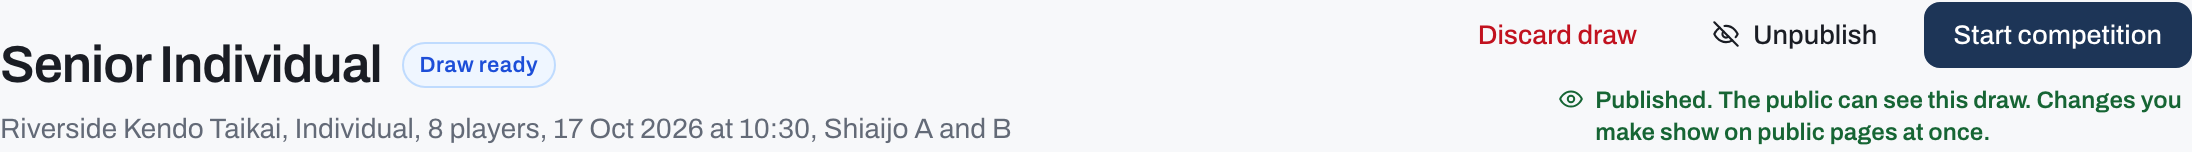
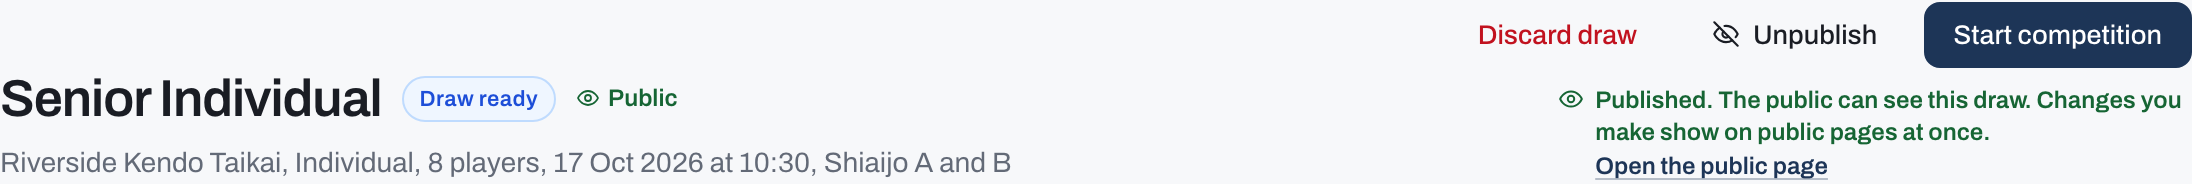
fix(bc-drpb): apply the design critique of the publish-draw screens
Round bc-drpb-critique-1:
- C1: the title row says "Hidden from the public" or "Public" beside the
  Draw ready badge, with the dashboard card's eye line.
- C2: the hint line ends with "Open the public page", opening the
  competition's public page in a new tab.
- C3: both Discard confirms are titled "Discard the draw for <name>?".
- C4: the public home list badge reads "Preparing draw" and never wraps;
  the competition page card keeps "Draw being prepared".
- C5: left as it is.

Docs and the two header screenshots follow.

diff --git a/web-mobile/js/__tests__/render/draw_preview_publish.render.test.jsx b/web-mobile/js/__tests__/render/draw_preview_publish.render.test.jsx
@@ -4,6 +4,7 @@ import { describe, it, expect, vi, beforeAll, afterAll, beforeEach } from 'vites
 import { installWindowStubs } from '../helpers/stub_globals.js';
 import {
   DRAW_HIDDEN_HINT, DRAW_PUBLISHED_HINT, DRAW_PUBLISHED_TOAST, DRAW_UNPUBLISHED_TOAST,
+  DRAW_HIDDEN_CARD_LINE, DRAW_PUBLIC_CARD_LINE, OPEN_PUBLIC_PAGE_LABEL,
   startHiddenDrawMessage, discardPublishedDrawMessage,
 } from '../../draw_visibility.jsx';
 
@@ -83,20 +84,34 @@ const headerButtons = (container) => [...container.querySelectorAll('.page-head_
 const labels = (container) => headerButtons(container).map((b) => b.textContent.trim());
 const button = (container, label) => headerButtons(container).find((b) => b.textContent.trim() === label);
 const hint = () => screen.queryByTestId('draw-visibility-hint');
+const state = () => screen.queryByTestId('draw-visibility-state');
+const publicLink = () => screen.queryByTestId('draw-public-page-link');
 
 describe('the draw preview header (bc-drpb)', () => {
   it('a hidden draft offers Discard draw, Publish draw, Start competition in that order, and says it is hidden', async () => {
     const { container } = await mount({ hidden: true });
     expect(labels(container)).toEqual(['Discard draw', 'Publish draw', 'Start competition']);
-    expect(hint().textContent).toBe(DRAW_HIDDEN_HINT);
+    expect(hint().textContent).toBe(`${DRAW_HIDDEN_HINT} ${OPEN_PUBLIC_PAGE_LABEL}`);
     expect(hint().className).toContain('draw-visibility-hint--hidden');
+    // The title row says it too, beside the Draw ready badge.
+    expect(state().textContent).toBe(DRAW_HIDDEN_CARD_LINE);
+    expect(state().className).toContain('draw-visibility-line--hidden');
+  });
+
+  it('the hint ends with a link to this competition\'s public page, in a new tab', async () => {
+    await mount({ hidden: true });
+    expect(publicLink().getAttribute('href')).toBe('/competition/c1');
+    expect(publicLink().getAttribute('target')).toBe('_blank');
+    expect(publicLink().getAttribute('rel')).toBe('noopener noreferrer');
   });
 
   it('a published draft offers Unpublish in the same place and says it is published', async () => {
     const { container } = await mount({ hidden: false });
     expect(labels(container)).toEqual(['Discard draw', 'Unpublish', 'Start competition']);
-    expect(hint().textContent).toBe(DRAW_PUBLISHED_HINT);
+    expect(hint().textContent).toBe(`${DRAW_PUBLISHED_HINT} ${OPEN_PUBLIC_PAGE_LABEL}`);
     expect(hint().className).toContain('draw-visibility-hint--published');
+    expect(state().textContent).toBe(DRAW_PUBLIC_CARD_LINE);
+    expect(state().className).toContain('draw-visibility-line--public');
   });
 
   it('Publish draw publishes, refetches and says so; nothing asks first', async () => {
@@ -175,7 +190,7 @@ describe('the draw preview header (bc-drpb)', () => {
   it('Discard on a published draft warns that the public saw it; a hidden draft keeps the plain confirm', async () => {
     const pub = await mount({ hidden: false });
     await act(async () => { fireEvent.click(button(pub.container, 'Discard draw')); });
-    expect(window.confirmDialog.mock.calls[0][0]).toMatchObject({ message: discardPublishedDrawMessage('Mudansha'), confirmLabel: 'Discard draw', cancelLabel: 'Cancel', danger: true });
+    expect(window.confirmDialog.mock.calls[0][0]).toMatchObject({ title: 'Discard the draw for Mudansha?', message: discardPublishedDrawMessage('Mudansha'), confirmLabel: 'Discard draw', cancelLabel: 'Cancel', danger: true });
     expect(window.API.discardDraw).not.toHaveBeenCalled();
     pub.unmount();
 
@@ -183,12 +198,15 @@ describe('the draw preview header (bc-drpb)', () => {
     const hid = await mount({ hidden: true });
     await act(async () => { fireEvent.click(button(hid.container, 'Discard draw')); });
     expect(window.confirmDialog.mock.calls[0][0].message).toMatch(/^Discard the generated draw for "Mudansha"\?/);
+    expect(window.confirmDialog.mock.calls[0][0].title).toBe('Discard the draw for Mudansha?');
   });
 
   it('a self-run tournament shows no visibility control, hint or confirm', async () => {
     const { container } = await mount({ hidden: true, mode: 'self-run' });
     expect(labels(container)).toEqual(['Discard draw', 'Start competition']);
     expect(hint()).toBeNull();
+    expect(state()).toBeNull();
+    expect(publicLink()).toBeNull();
     expect(container.textContent).toContain('Draw generated. Preview below, then start.');
     fireEvent.click(button(container, 'Start competition'));
     expect(window.API.startCompetition).toHaveBeenCalledTimes(1);

diff --git a/web-mobile/js/admin_competition.jsx b/web-mobile/js/admin_competition.jsx
@@ -21,7 +21,8 @@ import { andList } from './list_phrase.jsx';
 import { useLatestRef } from './latest_ref.jsx';
 import { useWaitForQueuedWrites, QueuedWritesWait, queuedWritesNounFor } from './queued_writes_wait.jsx';
 import {
-  drawHiddenFromPublic, drawPublishedDraft, drawVisibilityIcon, confirmStartHiddenDraw, discardPublishedDrawMessage,
+  drawHiddenFromPublic, drawPublishedDraft, drawVisibilityIcon, drawVisibilityCardLine, confirmStartHiddenDraw,
+  discardPublishedDrawMessage, discardDrawTitle, publicCompetitionPath, OPEN_PUBLIC_PAGE_LABEL,
   DRAW_HIDDEN_HINT, DRAW_PUBLISHED_HINT, PUBLISH_DRAW_LABEL, UNPUBLISH_DRAW_LABEL, DRAW_PUBLISHED_TOAST, DRAW_UNPUBLISHED_TOAST,
 } from './draw_visibility.jsx';
 export { formatCompMinutes } from './admin_competition_settings.jsx';
@@ -191,8 +192,8 @@ function AdminCompetition({ tournament, competition, pools, poolMatches, standin
     // draw starts hidden; a hidden one keeps the plain confirm.
     const seen = !selfRun && drawPublishedDraft(t, c);
     const ask = seen
-      ? { message: discardPublishedDrawMessage(c.name), confirmLabel: "Discard draw", cancelLabel: "Cancel", danger: true }
-      : { message: `Discard the generated draw for "${c.name}"? The pools/bracket will be removed so you can edit participants and settings, then generate a new draw.`, confirmLabel: "Discard draw", danger: true };
+      ? { title: discardDrawTitle(c.name), message: discardPublishedDrawMessage(c.name), confirmLabel: "Discard draw", cancelLabel: "Cancel", danger: true }
+      : { title: discardDrawTitle(c.name), message: `Discard the generated draw for "${c.name}"? The pools/bracket will be removed so you can edit participants and settings, then generate a new draw.`, confirmLabel: "Discard draw", danger: true };
     if (!(await window.confirmDialog(ask))) return;
     setDiscarding(true);
     try {
@@ -476,6 +477,13 @@ function AdminCompetition({ tournament, competition, pools, poolMatches, standin
             <div style={{ display: "flex", alignItems: "center", gap: 10, flexWrap: "wrap" }}>
               <h1 className="page-head__title">{c.name}</h1>
               <StatusBadge status={localStatus ?? c.status} format={c.format} />
+              {/* Beside the badge, whether the public can see the draw: the
+                  dashboard card's eye line, read where the eye lands first. */}
+              {isDrawReady && !selfRun && (
+                <span className={`draw-visibility-line draw-visibility-line--${drawHidden ? "hidden" : "public"}`} data-testid="draw-visibility-state">
+                  <Icon name={drawVisibilityIcon(t, c)} size={12} />{drawVisibilityCardLine(t, c)}
+                </span>
+              )}
             </div>
             {/* One phrase under the name, its parts separated by commas. "at"
                 only between a date AND a time; a part with nothing to say is
@@ -560,7 +568,10 @@ function AdminCompetition({ tournament, competition, pools, poolMatches, standin
                 ) : (
                   <div className={`draw-visibility-hint draw-visibility-hint--${drawHidden ? "hidden" : "published"}`} data-testid="draw-visibility-hint">
                     <Icon name={drawVisibilityIcon(t, c)} size={13} />
-                    <span>{drawHidden ? DRAW_HIDDEN_HINT : DRAW_PUBLISHED_HINT}</span>
+                    <span>
+                      {drawHidden ? DRAW_HIDDEN_HINT : DRAW_PUBLISHED_HINT}{" "}
+                      <a href={publicCompetitionPath(c)} target="_blank" rel="noopener noreferrer" data-testid="draw-public-page-link">{OPEN_PUBLIC_PAGE_LABEL}</a>
+                    </span>
                   </div>
                 )}
               </div>

diff --git a/web-mobile/js/draw_visibility.jsx b/web-mobile/js/draw_visibility.jsx
@@ -63,6 +63,13 @@ export function isWithheldMatchEvent(event) {
 // The draw preview header's hint line.
 export const DRAW_HIDDEN_HINT = "Hidden from the public. Publish draw or Start competition makes it public.";
 export const DRAW_PUBLISHED_HINT = "Published. The public can see this draw. Changes you make show on public pages at once.";
+// The link that ends the hint line: this competition's public page, opened in
+// a new tab so the organiser can check what the public sees before and after
+// publishing.
+export const OPEN_PUBLIC_PAGE_LABEL = "Open the public page";
+export function publicCompetitionPath(comp) {
+  return `/competition/${encodeURIComponent(comp.id)}`;
+}
 
 // The header's buttons and their toasts.
 export const PUBLISH_DRAW_LABEL = "Publish draw";
@@ -81,11 +88,14 @@ export function drawVisibilityCardLine(tournament, comp) {
   return drawHiddenFromPublic(tournament, comp) ? DRAW_HIDDEN_CARD_LINE : DRAW_PUBLIC_CARD_LINE;
 }
 
-// What the public pages call a hidden draft: the status badge on the home
-// list, the watchlist line, the competition page's card title (that page's
-// header carries no badge for it, since the card already says it). The
-// organiser's own badge keeps "Draw ready".
+// What the public pages call a hidden draft: the watchlist line and the
+// competition page's card title (that page's header carries no badge for it,
+// since the card already says it). The organiser's own badge keeps "Draw
+// ready".
 export const PUBLIC_DRAW_PREPARING = "Draw being prepared";
+// The home list's status badge for the same state, short enough to stay on
+// one line beside a card's details on a phone.
+export const PUBLIC_DRAW_PREPARING_BADGE = "Preparing draw";
 
 // The public card's message: "Starts at 10:30. 12 competitors entered. The
 // draw shows here once it is published." The start sentence only with a start
@@ -106,8 +116,13 @@ export function startHiddenDrawMessage(name) {
   return `The draw for "${name || ""}" is still hidden from the public. Starting the competition makes it public at once.`;
 }
 
+// Both Discard confirms' title, on a hidden draft and a published one.
+export function discardDrawTitle(name) {
+  return `Discard the draw for ${name || ""}?`;
+}
+
 // The Discard confirm on a published draft (a hidden one keeps the header's
-// own confirm).
+// own message).
 export function discardPublishedDrawMessage(name) {
   return `The public has already seen this draw. Discard the draw for "${name || ""}"? The pools and bracket are removed so you can edit participants and settings, and the new draw starts hidden.`;
 }

diff --git a/web-mobile/js/ui.jsx b/web-mobile/js/ui.jsx
@@ -4,19 +4,19 @@ import { useOpenedTapGuard } from './tap_guard.jsx';
 import { toastSnapshot, subscribeToast, dismissToast } from './toast_queue.jsx';
 import { useUnsavedInput } from './app_version.jsx';
 import { Icon } from './icon.jsx';
-import { PUBLIC_DRAW_PREPARING } from './draw_visibility.jsx';
+import { PUBLIC_DRAW_PREPARING_BADGE } from './draw_visibility.jsx';
 
 // Formats that run their matches through the pool pipeline but are not pools.
 // See the label note inside StatusBadge.
 const POOLS_PHASE_FORMAT_LABEL = { league: "League", swiss: "Swiss" };
 
-// `drawPreparing` (bc-drpb): a PUBLIC surface passes
+// `drawPreparing` (bc-drpb): the public home list passes
 // drawHiddenFromPublic(tournament, c) (draw_visibility.jsx), and a draft the
-// public may not see yet reads "Draw being prepared" there. The organiser's
+// public may not see yet reads "Preparing draw" there. The organiser's
 // badge never passes it, so it keeps "Draw ready".
 function StatusBadge({ status, showRunningDot, format, drawPreparing }) {
   if (drawPreparing && status === "draw-ready") {
-    return <span className="badge badge--draw-preparing">{PUBLIC_DRAW_PREPARING}</span>;
+    return <span className="badge badge--draw-preparing">{PUBLIC_DRAW_PREPARING_BADGE}</span>;
   }
   const map = {
     setup: ["badge--setup", "Pending"],

diff --git a/web-mobile/css/styles.css b/web-mobile/css/styles.css
@@ -1837,6 +1837,10 @@ a:hover {
   color: var(--ink-2);
   border-color: var(--line);
   border-style: dashed;
+  /* Never broken over two lines inside its pill: the card's details wrap
+     instead. */
+  white-space: nowrap;
+  flex: none;
 }
 
 /* The draw preview header's hint line under its buttons, with the eye or the
@@ -1862,6 +1866,18 @@ a:hover {
 }
 .draw-visibility-hint--published {
   color: var(--ok-ink);
+}
+/* "Open the public page" at the end of the hint: underlined, as the app's
+   other links inside a sentence are, and never split over two lines. */
+.draw-visibility-hint a {
+  color: var(--accent);
+  text-decoration: underline;
+  text-decoration-color: color-mix(in oklch, var(--accent) 30%, transparent);
+  text-underline-offset: 2px;
+  white-space: nowrap;
+}
+.draw-visibility-hint a:hover {
+  text-decoration-color: currentColor;
 }
 
 /* The dashboard card's line: the crossed-out eye and "Hidden from the

diff --git a/web-mobile/js/__tests__/render/viewer_draw_hidden.render.test.jsx b/web-mobile/js/__tests__/render/viewer_draw_hidden.render.test.jsx
@@ -98,9 +98,9 @@ const tabNames = () => [...document.querySelectorAll('.viewer__tab')].map((b) =>
 const activeTab = () => document.querySelector('.viewer__tab.is-active')?.textContent;
 
 describe('StatusBadge: a hidden draft on a public surface (bc-drpb)', () => {
-  it('reads "Draw being prepared" where the public page asks, "Draw ready" for the organiser', () => {
+  it('reads "Preparing draw" where the public home list asks, "Draw ready" for the organiser', () => {
     const { rerender } = render(<StatusBadge status="draw-ready" drawPreparing />);
-    expect(screen.getByText('Draw being prepared').className).toContain('badge--draw-preparing');
+    expect(screen.getByText('Preparing draw').className).toContain('badge--draw-preparing');
     rerender(<StatusBadge status="draw-ready" />);
     expect(screen.getByText('Draw ready')).toBeTruthy();
     // A started competition is never "being prepared", whatever is passed.

diff --git a/docs/user-guide/organisers/run-tournament.md b/docs/user-guide/organisers/run-tournament.md
@@ -259,13 +259,13 @@ A draw-ready competition is already listed on the shiai-jo operator views, since
 
 A new draw starts hidden from the public. Spectators, court displays and the stream overlay see the competition as if it were still in setup: its name, its competitors and the line **Draw being prepared**, but no pools, bracket, matches or competitor numbers. Your own screens show the draw as usual, and so does the court console. Refer to [Follow the tournament](../spectators/following.md#when-the-draw-is-being-prepared) for what spectators see.
 
-The preview header holds three buttons, in this order: **Discard draw**, **Publish draw** and **Start competition**. A line below them says where the draw stands.
+The preview header holds three buttons, in this order: **Discard draw**, **Publish draw** and **Start competition**. Beside the **Draw ready** badge next to the competition's name, a crossed-out eye and "Hidden from the public", or an open eye and "Public", say at a glance who can see the draw. A line below the buttons says it in full, and ends with **Open the public page**, which opens the competition's public page in a new tab so you can check what spectators see before and after you publish.
 
-![The draw preview header of a hidden draw: Discard draw, Publish draw and Start competition, with the line "Hidden from the public" below them.](../../screenshots/draw-hidden-header.png)
+![The draw preview header of a hidden draw: Discard draw, Publish draw and Start competition, with "Hidden from the public" beside the badge and in the line below them.](../../screenshots/draw-hidden-header.png)
 
-![The same header once the draw is published: Discard draw, Unpublish and Start competition, with the line "Published" below them.](../../screenshots/draw-published-header.png)
+![The same header once the draw is published: Discard draw, Unpublish and Start competition, with "Public" beside the badge and the line "Published" below them.](../../screenshots/draw-published-header.png)
 
-The two lines read:
+The line below the buttons reads:
 
 - While it is hidden: "Hidden from the public. Publish draw or Start competition makes it public."
 - Once it is published: "Published. The public can see this draw. Changes you make show on public pages at once."
@@ -277,7 +277,7 @@ The dashboard card of a draw-ready competition shows the same thing at a glance:
 - **Publish draw** shows the draw on the public pages at once, without waiting for the start. It asks nothing first. Once published, the button reads **Unpublish**.
 - **Unpublish** hides the draw again, for example when you published it by mistake or spotted an error after publishing. The app says "Hidden again. Anyone who looked still has what they saw.": a spectator who already read the draw, took a screenshot or printed it keeps that copy, so tell people when a published draw changes.
 - **Start competition** makes the draw public whether or not you published it. On a hidden draw it asks first, under the title "Start <name>?": "The draw for "<name>" is still hidden from the public. Starting the competition makes it public at once." Choose **Start competition** to go ahead, or **Cancel**. **Start** on the dashboard card asks the same, and **Start all** starts every competition in setup and every competition whose draw is already made, and before you confirm it names the hidden draws it would make visible: "Starting makes these draws visible to the public: <names>."
-- **Discard draw** on a published draw warns you that the public has already seen it, and that the new draw you generate starts hidden again. On a hidden draw it asks only whether to remove the pools and bracket so you can edit participants and settings.
+- **Discard draw** asks first, under the title "Discard the draw for <name>?". On a published draw it warns you that the public has already seen it, and that the new draw you generate starts hidden again. On a hidden draw it asks only whether to remove the pools and bracket so you can edit participants and settings.
 
 Scoring a match of a draw-ready competition starts it, so that also makes its draw public. A court operator who taps **Call to court** for a match of a hidden draw is asked first: "The draw for <competition> is still hidden from the public. Calling this match shows its competitors on the public screens." **Call anyway** makes the call, and **Cancel** (or Escape) leaves the match uncalled. Publish the draw first if you do not want the call to be the first thing spectators see.
 

diff --git a/docs/user-guide/spectators/following.md b/docs/user-guide/spectators/following.md
@@ -85,7 +85,7 @@ If someone is entered in more than one competition, they have a separate number 
 
 ### When the draw is being prepared
 
-The organiser makes the draw and checks it before anyone else sees it. Until they publish it or start the competition, the competition reads **Draw being prepared** on the home list. Its page shows only the Overview (and the Standings, for a Swiss competition, with nobody scored yet), with a **Draw being prepared** card that says when it starts, if a start time is set, and how many competitors or teams are entered. There are no pools, bracket, matches or competitor numbers to see yet, and the court displays show none of its matches.
+The organiser makes the draw and checks it before anyone else sees it. Until they publish it or start the competition, the competition reads **Preparing draw** on the home list. Its page shows only the Overview (and the Standings, for a Swiss competition, with nobody scored yet), with a **Draw being prepared** card that says when it starts, if a start time is set, and how many competitors or teams are entered. There are no pools, bracket, matches or competitor numbers to see yet, and the court displays show none of its matches.
 
 ![A competition page on a phone while the draw is being prepared: the name, the start time and the number of competitors, with no pools or bracket.](../../screenshots/draw-preparing-public.png)
 
